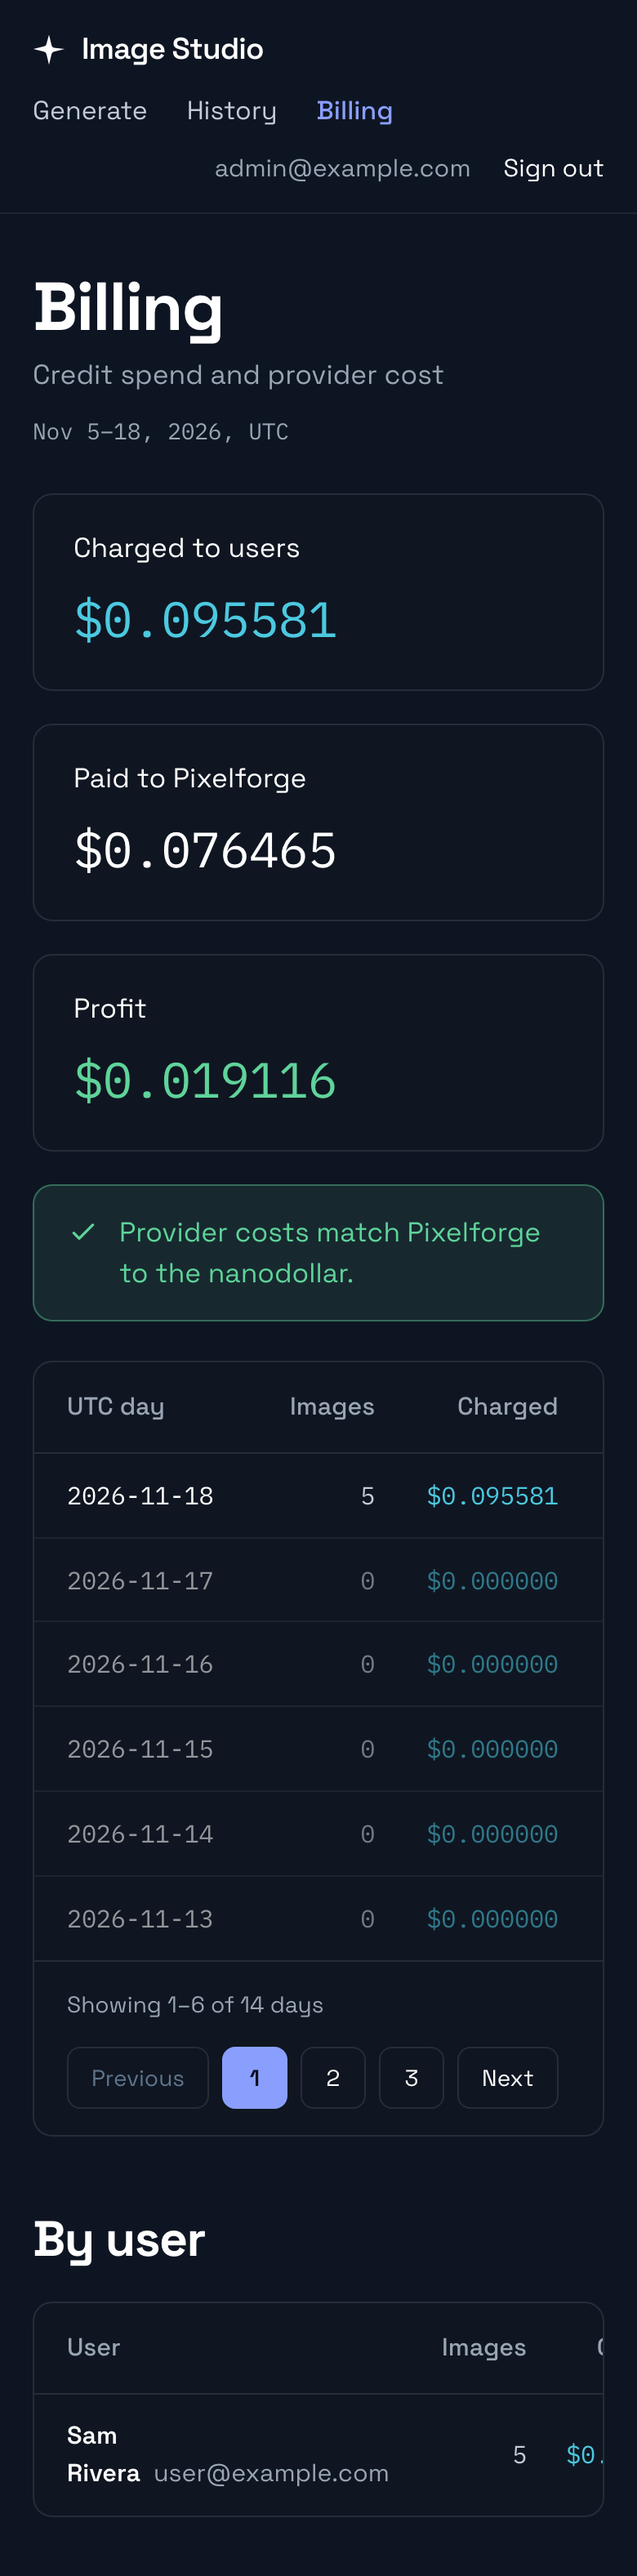
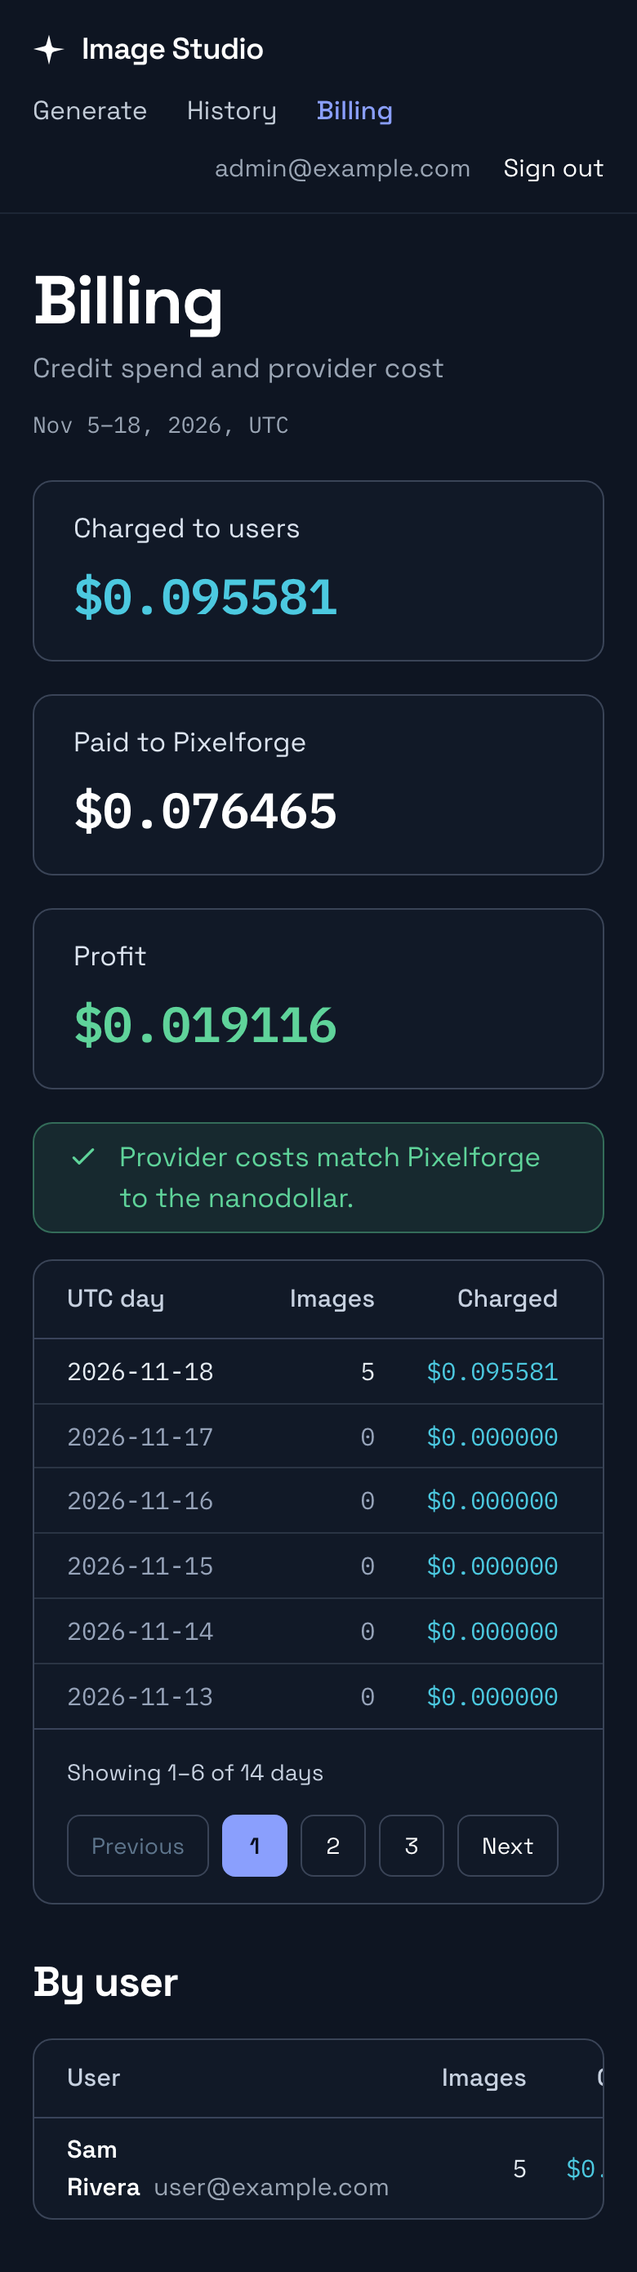
Match the Billing page to the reference
Typography
- Summary amounts are semibold; their labels, the table headers, dates and
  values all move to brighter slate.
- Zero-activity days no longer dim the whole row with opacity. They use a
  muted text colour instead, so the figures stay readable.

Cards and tables
- Surfaces stay dark navy (#111927) with visible slate outlines on the
  summary cards, both tables and the pagination buttons. Header and row
  dividers are distinguishable without weighing the table down.

Layout
- Report gutters now match the reference (content x 54-1530 against the
  reference's 54-1528).
- Tighter space above the table and 40px rows, so six daily rows, the
  pagination footer and the By user section all fit at 1585x992 without
  scrolling. Previously the page ran 20px past the fold.

Billing calculations, reconciliation and the independent day/user
pagination are untouched.

diff --git a/resources/js/Pages/Admin/Report.vue b/resources/js/Pages/Admin/Report.vue
@@ -66,27 +66,27 @@ const only = ['report']
         <p class="figure text-sm text-[#9aa5b4]">{{ report.period_label }}</p>
     </div>
 
-    <div class="mt-7 grid gap-5 sm:grid-cols-3">
-        <div class="rounded-xl border border-[#262d39] bg-[#0f1621] px-6 py-5">
-            <div class="text-[1.05rem] text-white">Charged to users</div>
-            <div class="figure mt-2 text-[1.9rem] text-measured">
+    <div class="mt-6 grid gap-5 sm:grid-cols-3">
+        <div class="rounded-xl border border-[#3a4457] bg-[#111927] px-6 py-4">
+            <div class="text-[1.05rem] text-[#dbe3ef]">Charged to users</div>
+            <div class="figure mt-1.5 text-[1.9rem] font-semibold text-measured">
                 ${{ report.totals.credit_spend.display }}
             </div>
         </div>
-        <div class="rounded-xl border border-[#262d39] bg-[#0f1621] px-6 py-5">
-            <div class="text-[1.05rem] text-white">Paid to Pixelforge</div>
-            <div class="figure mt-2 text-[1.9rem] text-white">
+        <div class="rounded-xl border border-[#3a4457] bg-[#111927] px-6 py-4">
+            <div class="text-[1.05rem] text-[#dbe3ef]">Paid to Pixelforge</div>
+            <div class="figure mt-1.5 text-[1.9rem] font-semibold text-white">
                 ${{ report.totals.provider_cost.display }}
             </div>
         </div>
-        <div class="rounded-xl border border-[#262d39] bg-[#0f1621] px-6 py-5">
-            <div class="text-[1.05rem] text-white">Profit</div>
-            <div class="figure mt-2 text-[1.9rem] text-ok">${{ report.totals.profit.display }}</div>
+        <div class="rounded-xl border border-[#3a4457] bg-[#111927] px-6 py-4">
+            <div class="text-[1.05rem] text-[#dbe3ef]">Profit</div>
+            <div class="figure mt-1.5 text-[1.9rem] font-semibold text-ok">${{ report.totals.profit.display }}</div>
         </div>
     </div>
 
     <div
-        class="mt-5 flex items-start gap-3 rounded-xl border px-5 py-4 text-[1.05rem]"
+        class="mt-5 flex items-start gap-3 rounded-xl border px-5 py-2 text-[1.05rem]"
         :class="{
             'border-ok/40 bg-ok/10 text-ok': report.reconciliation.matches === true,
             'border-fail/40 bg-fail/10 text-fail': report.reconciliation.matches === false,
@@ -122,56 +122,56 @@ const only = ['report']
         </div>
     </div>
 
-    <div class="mt-6 overflow-hidden rounded-xl border border-[#262d39] bg-[#0f1621]">
+    <div class="mt-4 overflow-hidden rounded-xl border border-[#3a4457] bg-[#111927]">
         <div class="overflow-x-auto">
             <table class="w-full min-w-[52rem] text-[0.95rem]">
                 <thead>
-                    <tr class="border-b border-[#262d39] text-[#9aa5b4]">
-                        <th scope="col" class="px-5 py-4 text-left font-medium">UTC day</th>
-                        <th scope="col" class="px-3 py-4 text-right font-medium">Images</th>
-                        <th scope="col" class="px-3 py-4 text-right font-medium">Charged</th>
-                        <th scope="col" class="px-3 py-4 text-right font-medium">Our cost</th>
-                        <th scope="col" class="px-3 py-4 text-right font-medium">Pixelforge cost</th>
-                        <th scope="col" class="px-3 py-4 text-right font-medium">Delta</th>
-                        <th scope="col" class="px-5 py-4 text-right font-medium">Profit</th>
+                    <tr class="border-b border-[#39435a] text-[#c7d1e0]">
+                        <th scope="col" class="px-5 py-3 text-left font-medium">UTC day</th>
+                        <th scope="col" class="px-3 py-3 text-right font-medium">Images</th>
+                        <th scope="col" class="px-3 py-3 text-right font-medium">Charged</th>
+                        <th scope="col" class="px-3 py-3 text-right font-medium">Our cost</th>
+                        <th scope="col" class="px-3 py-3 text-right font-medium">Pixelforge cost</th>
+                        <th scope="col" class="px-3 py-3 text-right font-medium">Delta</th>
+                        <th scope="col" class="px-5 py-3 text-right font-medium">Profit</th>
                     </tr>
                 </thead>
                 <tbody>
                     <tr
                         v-for="day in report.days.data"
                         :key="day.date"
-                        class="border-b border-[#262d39]/60 last:border-b-0"
-                        :class="{ 'opacity-55': day.generations === 0 }"
+                        class="border-b border-[#2a3444] last:border-b-0"
+                        :class="day.generations === 0 ? 'text-[#97a4ba]' : ''"
                     >
-                        <th scope="row" class="figure px-5 py-3.5 text-left font-normal text-white">
+                        <th scope="row" class="figure px-5 py-2 text-left font-normal text-inherit">
                             {{ day.date }}
                         </th>
-                        <td class="figure px-3 py-3.5 text-right text-[#c3ccd8]">{{ day.generations }}</td>
-                        <td class="figure px-3 py-3.5 text-right text-measured">
+                        <td class="figure px-3 py-2 text-right text-inherit">{{ day.generations }}</td>
+                        <td class="figure px-3 py-2 text-right text-measured">
                             ${{ day.credit_spend.display }}
                         </td>
-                        <td class="figure px-3 py-3.5 text-right text-[#c3ccd8]">
+                        <td class="figure px-3 py-2 text-right text-inherit">
                             ${{ day.provider_cost.display }}
                         </td>
-                        <td class="figure px-3 py-3.5 text-right text-[#c3ccd8]">
+                        <td class="figure px-3 py-2 text-right text-inherit">
                             <template v-if="day.provider_reported_cost">
                                 ${{ day.provider_reported_cost.display }}
                             </template>
                             <span v-else class="text-estimate">unavailable</span>
                         </td>
-                        <td class="figure px-3 py-3.5 text-right">
+                        <td class="figure px-3 py-2 text-right">
                             <span v-if="day.delta" :class="day.reconciled ? 'text-[#c3ccd8]' : 'text-fail'">
                                 ${{ day.delta.display }}
                             </span>
                             <span v-else class="text-[#5e758c]">—</span>
                         </td>
-                        <td class="figure px-5 py-3.5 text-right text-ok">${{ day.profit.display }}</td>
+                        <td class="figure px-5 py-2 text-right text-ok">${{ day.profit.display }}</td>
                     </tr>
                 </tbody>
             </table>
         </div>
 
-        <div class="border-t border-[#262d39]">
+        <div class="border-t border-[#39435a]">
             <Pagination
                 :meta="report.days.meta"
                 page-name="days_page"
@@ -182,38 +182,38 @@ const only = ['report']
         </div>
     </div>
 
-    <h2 class="mt-10 text-[1.9rem] font-bold tracking-tight text-white">By user</h2>
+    <h2 class="mt-7 text-[1.6rem] font-bold tracking-tight text-white">By user</h2>
 
-    <div class="mt-4 overflow-hidden rounded-xl border border-[#262d39] bg-[#0f1621]">
+    <div class="mt-4 overflow-hidden rounded-xl border border-[#3a4457] bg-[#111927]">
         <div v-if="report.users.data.length" class="overflow-x-auto">
             <table class="w-full min-w-[40rem] text-[0.95rem]">
                 <thead>
-                    <tr class="border-b border-[#262d39] text-[#9aa5b4]">
-                        <th scope="col" class="px-5 py-4 text-left font-medium">User</th>
-                        <th scope="col" class="px-3 py-4 text-right font-medium">Images</th>
-                        <th scope="col" class="px-3 py-4 text-right font-medium">Charged</th>
-                        <th scope="col" class="px-3 py-4 text-right font-medium">Our cost</th>
-                        <th scope="col" class="px-5 py-4 text-right font-medium">Profit</th>
+                    <tr class="border-b border-[#39435a] text-[#c7d1e0]">
+                        <th scope="col" class="px-5 py-3 text-left font-medium">User</th>
+                        <th scope="col" class="px-3 py-3 text-right font-medium">Images</th>
+                        <th scope="col" class="px-3 py-3 text-right font-medium">Charged</th>
+                        <th scope="col" class="px-3 py-3 text-right font-medium">Our cost</th>
+                        <th scope="col" class="px-5 py-3 text-right font-medium">Profit</th>
                     </tr>
                 </thead>
                 <tbody>
                     <tr
                         v-for="user in report.users.data"
                         :key="user.id"
-                        class="border-b border-[#262d39]/60 last:border-b-0"
+                        class="border-b border-[#2a3444] last:border-b-0"
                     >
-                        <th scope="row" class="px-5 py-3.5 text-left font-normal">
+                        <th scope="row" class="px-5 py-2 text-left font-normal">
                             <span class="font-semibold text-white">{{ user.name }}</span>
                             <span class="ml-2 text-[#9aa5b4]">{{ user.email }}</span>
                         </th>
-                        <td class="figure px-3 py-3.5 text-right text-[#c3ccd8]">{{ user.generations }}</td>
-                        <td class="figure px-3 py-3.5 text-right text-measured">
+                        <td class="figure px-3 py-2 text-right text-inherit">{{ user.generations }}</td>
+                        <td class="figure px-3 py-2 text-right text-measured">
                             ${{ user.credit_spend.display }}
                         </td>
-                        <td class="figure px-3 py-3.5 text-right text-[#c3ccd8]">
+                        <td class="figure px-3 py-2 text-right text-inherit">
                             ${{ user.provider_cost.display }}
                         </td>
-                        <td class="figure px-5 py-3.5 text-right text-ok">${{ user.profit.display }}</td>
+                        <td class="figure px-5 py-2 text-right text-ok">${{ user.profit.display }}</td>
                     </tr>
                 </tbody>
             </table>

diff --git a/resources/js/Components/Pagination.vue b/resources/js/Components/Pagination.vue
@@ -69,13 +69,13 @@ function currentQuery(): Record<string, string> {
         class="flex flex-wrap items-center justify-between gap-4 px-5 py-4"
         :aria-label="`${nounPlural} pagination`"
     >
-        <p class="text-sm text-[#9aa5b4]">{{ rangeLabel }}</p>
+        <p class="text-sm text-[#c7d1e0]">{{ rangeLabel }}</p>
 
         <div v-if="last > 1" class="flex items-center gap-2">
             <button
                 type="button"
                 :disabled="current === 1"
-                class="rounded-lg border border-[#262d39] px-3.5 py-2 text-sm text-white transition-colors hover:border-[#8a9ffd]/60 disabled:cursor-not-allowed disabled:text-[#5e758c] disabled:hover:border-[#262d39]"
+                class="rounded-lg border border-[#3a4457] px-3.5 py-2 text-sm text-white transition-colors hover:border-[#8a9ffd]/60 disabled:cursor-not-allowed disabled:text-[#5e758c] disabled:hover:border-[#3a4457]"
                 @click="go(current - 1)"
             >
                 Previous
@@ -90,7 +90,7 @@ function currentQuery(): Record<string, string> {
                 :class="
                     page === current
                         ? 'border-[#8a9ffd] bg-[#8a9ffd] font-semibold text-[#0b1020]'
-                        : 'border-[#262d39] text-white hover:border-[#8a9ffd]/60'
+                        : 'border-[#3a4457] text-white hover:border-[#8a9ffd]/60'
                 "
                 @click="go(page)"
             >
@@ -100,7 +100,7 @@ function currentQuery(): Record<string, string> {
             <button
                 type="button"
                 :disabled="current === last"
-                class="rounded-lg border border-[#262d39] px-3.5 py-2 text-sm text-white transition-colors hover:border-[#8a9ffd]/60 disabled:cursor-not-allowed disabled:text-[#5e758c] disabled:hover:border-[#262d39]"
+                class="rounded-lg border border-[#3a4457] px-3.5 py-2 text-sm text-white transition-colors hover:border-[#8a9ffd]/60 disabled:cursor-not-allowed disabled:text-[#5e758c] disabled:hover:border-[#3a4457]"
                 @click="go(current + 1)"
             >
                 Next
